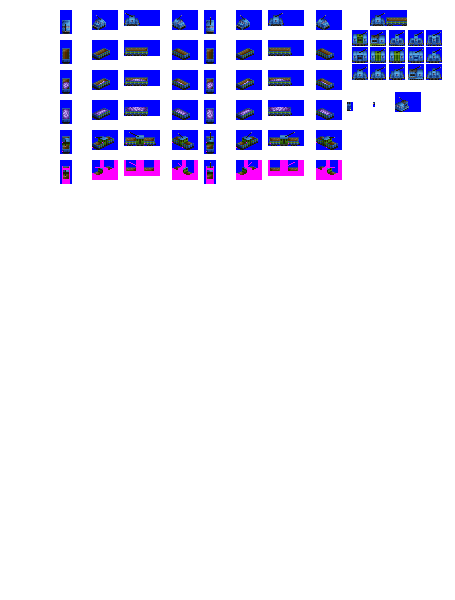
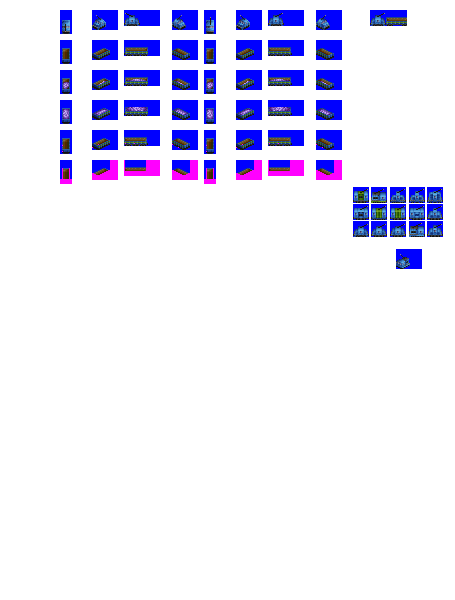
Change: cargo graphics setup for Brightling tram

diff --git a/src/vehicles/brightling.py b/src/vehicles/brightling.py
@@ -18,7 +18,7 @@ consist.add_unit(weight = 15,
 consist.add_unit(weight = 10,
                 capacity = 36,
                 vehicle_length = 6,
-                cargo_length = 4,
+                cargo_length = 3,
                 repeat = 2)
 
 consist.add_model_variant(intro_date=0,
